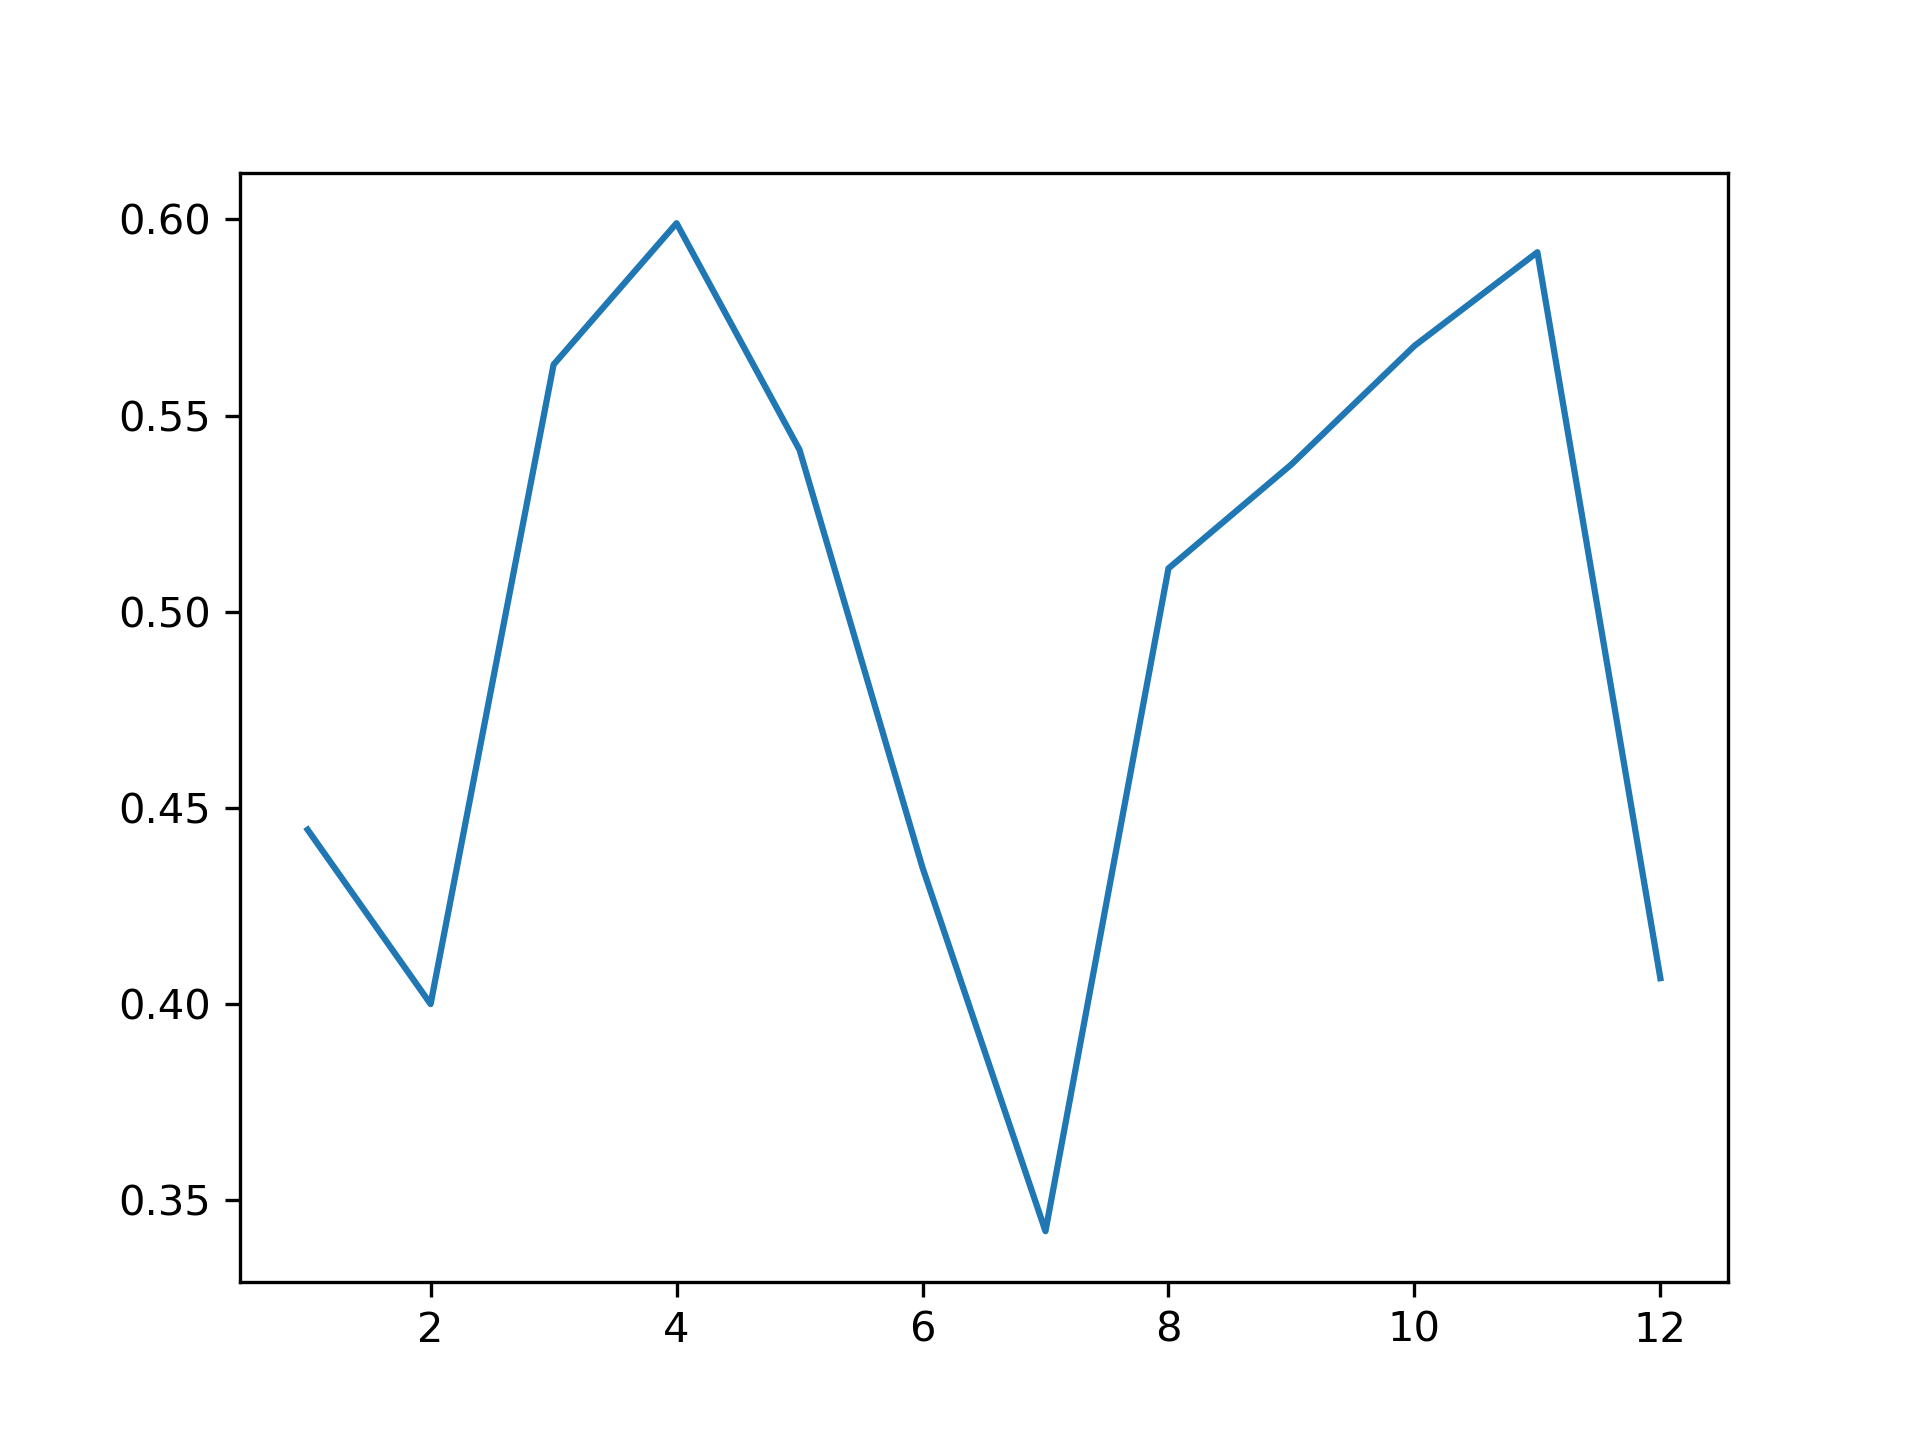
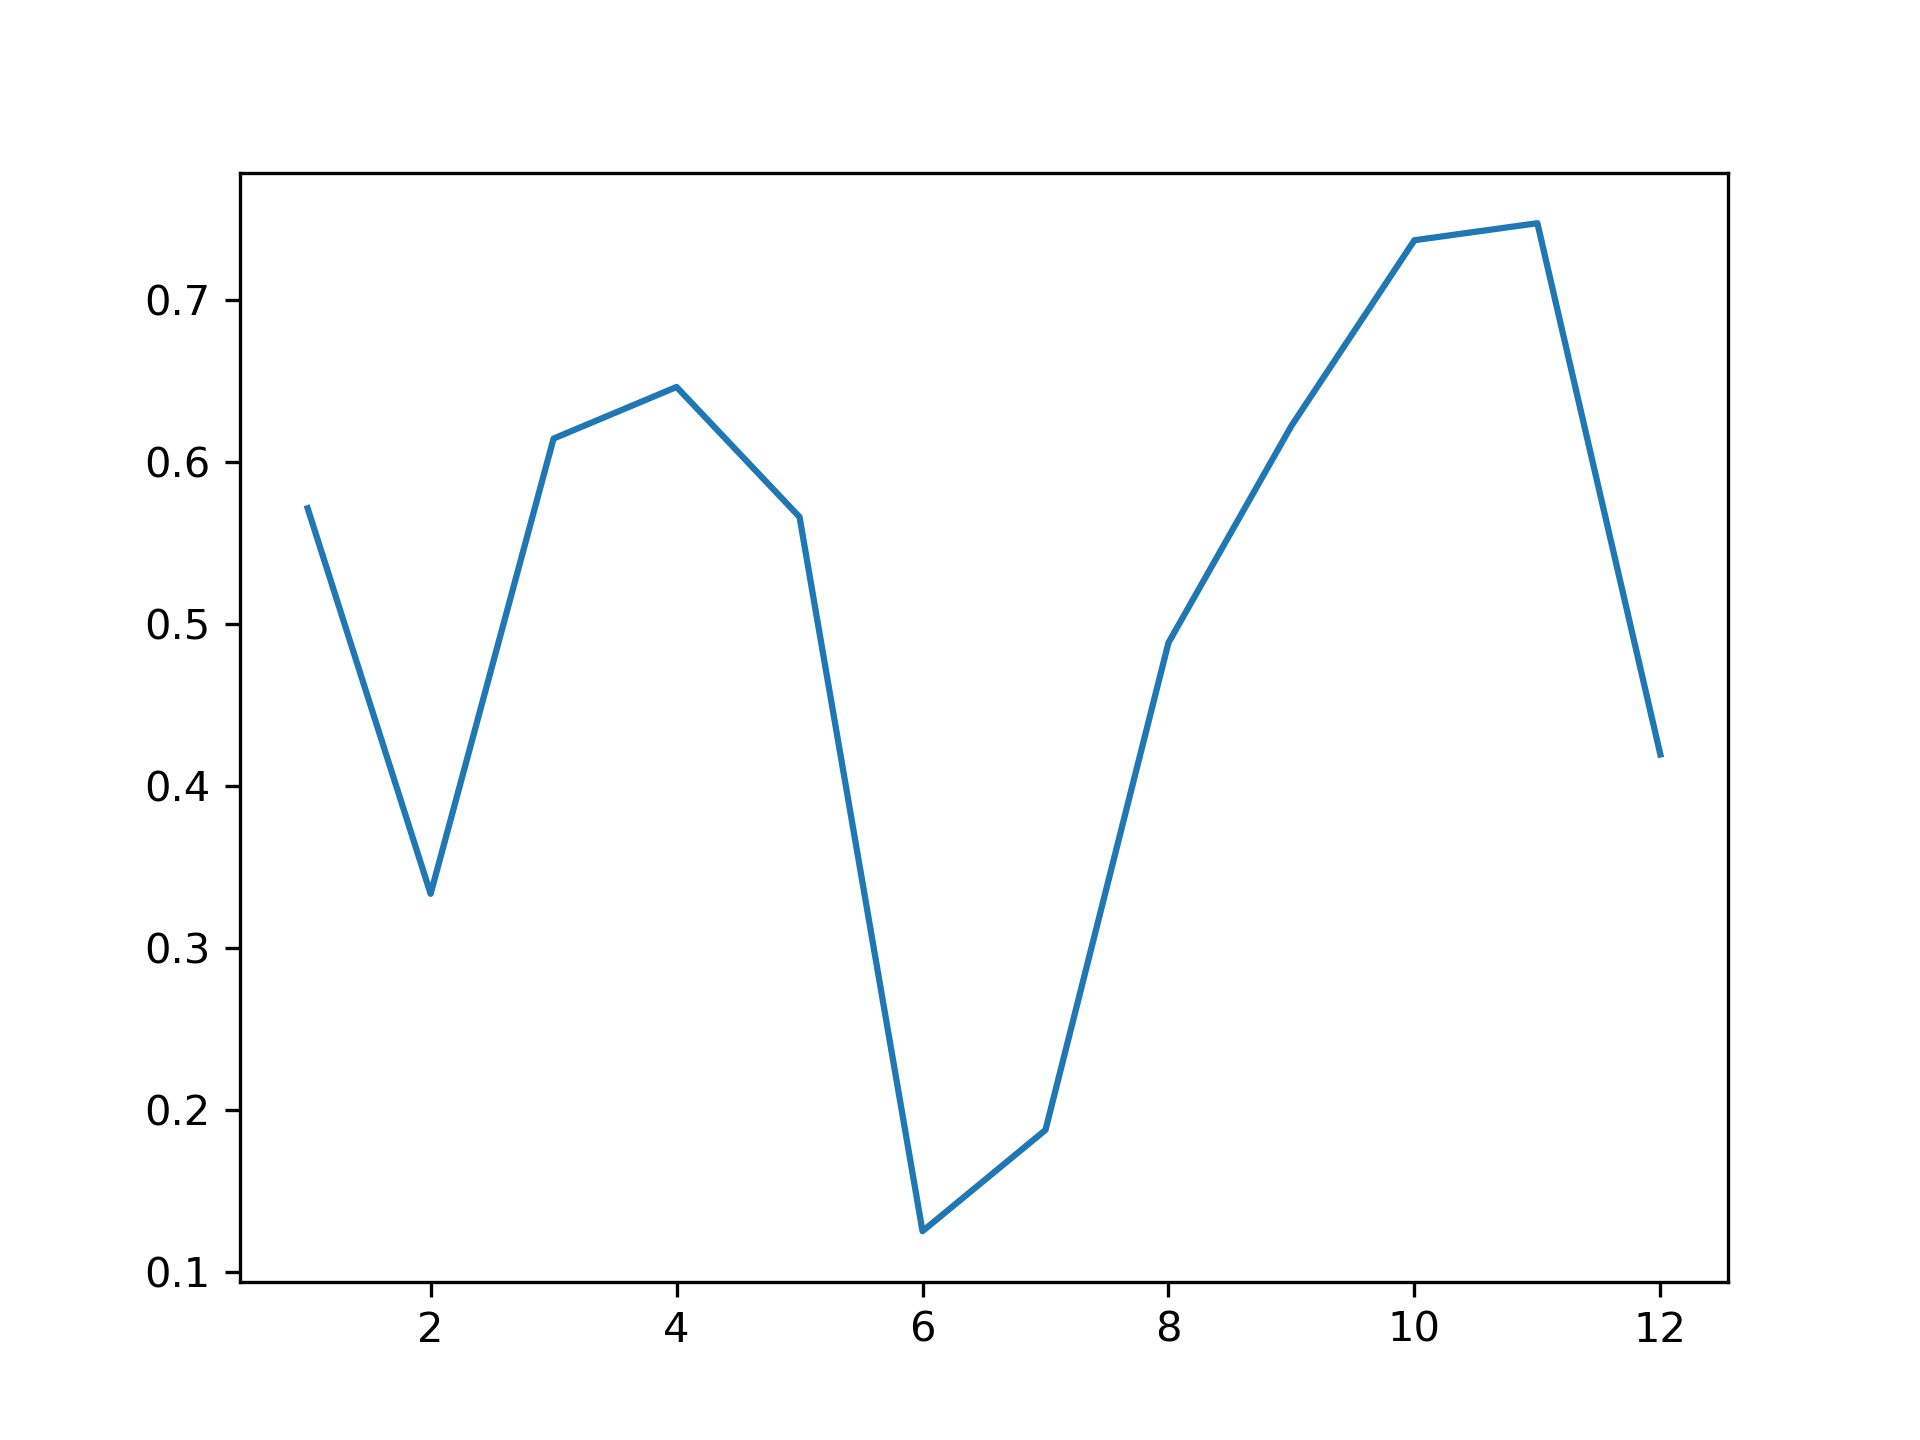
Added success rate of expedition based on different params

diff --git a/peaks.py b/peaks.py
@@ -12,52 +12,66 @@ import numpy as np
 
 df = pd.read_csv('expeditions.csv')
 
+
 def get_timespan(datetime, timespan_name):
     if timespan_name  == 'month':
         return datetime.month
     return datetime.year
 
 
-    for i, expedition in df.iterrows():
-        timespan = get_timespan(pd.to_datetime(expedition['basecamp_date']), timespan_name)
-        if timespan not in all_results:
-            all_results[timespan] = 1
-        else:
-            all_results[timespan] += 1
-
-def get_success_percentage(timespan_name):
+def get_success_percentage(feature: str, df):
     succ_results = {}
     all_results = {}
     per_results = {}
 
     for i, expedition in df.iterrows():
-        timespan = get_timespan(pd.to_datetime(expedition['basecamp_date']), timespan_name)
-        if timespan not in all_results:
-            all_results[timespan] = 1
+        if feature == 'month' or feature == 'year':
+            feature_value = get_timespan(pd.to_datetime(expedition['basecamp_date']), feature)
         else:
-            all_results[timespan] += 1
+            feature_value = expedition[feature]
+
+        if feature_value not in all_results:
+            all_results[feature_value] = 1
+        else:
+            all_results[feature_value] += 1
 
         if expedition['termination_reason'].split()[0] == 'Success':
-            if timespan not in succ_results:
-                succ_results[timespan] = 1
+            if feature_value not in succ_results:
+                succ_results[feature_value] = 1
             else:
-                succ_results[timespan] += 1
+                succ_results[feature_value] += 1
 
     for key in all_results:
-        if isinstance(key, int) and key in succ_results:
+        if (isinstance(key, int) or isinstance(key, bool)) and key in succ_results:
             per_results[key] = succ_results[key] / all_results[key]
-        elif isinstance(key, int):
+        elif isinstance(key, int) or isinstance(key, bool):
             per_results[key] = 0
+
+    #print(dict(sorted(all_results.items(), key=lambda x: x[0])))
     return dict(sorted(per_results.items(), key=lambda x: x[0]))
 
 
-per_results = get_success_percentage('month')
+def save_plot(feature, df):
+    per_results = get_success_percentage(feature, df)
+    plt.plot(per_results.keys(), per_results.values())
+    plt.savefig(f'success_per_{feature}.png', dpi=300)
+    plt.clf()
 
-plt.plot(per_results.keys(), per_results.values())
-plt.savefig(f'success_per_month.png', dpi=300)
-plt.clf()
+
+print(df['peak_name'].value_counts())
+peaks = ['Everest', 'Ama Dablam', 'Cho Oyu']
+df_peaks = df[df["peak_name"].isin(peaks)]
+df_peaks_subset = df_peaks[df_peaks['hired_staff'] < 20]
+
+df_peaks_subset['year'] = pd.to_datetime(df_peaks['basecamp_date'])
+
+print(df_peaks_subset.head())
+
+df_peaks_subset = df_peaks_subset[pd.to_datetime(df_peaks_subset['basecamp_date']).year > 1981]
+
+save_plot('month', df_peaks_subset)
+save_plot('year', df_peaks_subset)
+save_plot('oxygen_used', df_peaks_subset)
+save_plot('hired_staff', df_peaks_subset)
 
 
-per_results = get_success_percentage('year')
-plt.plot(per_results.keys(), per_results.values())
-plt.savefig(f'success_per_year.png', dpi=300)
